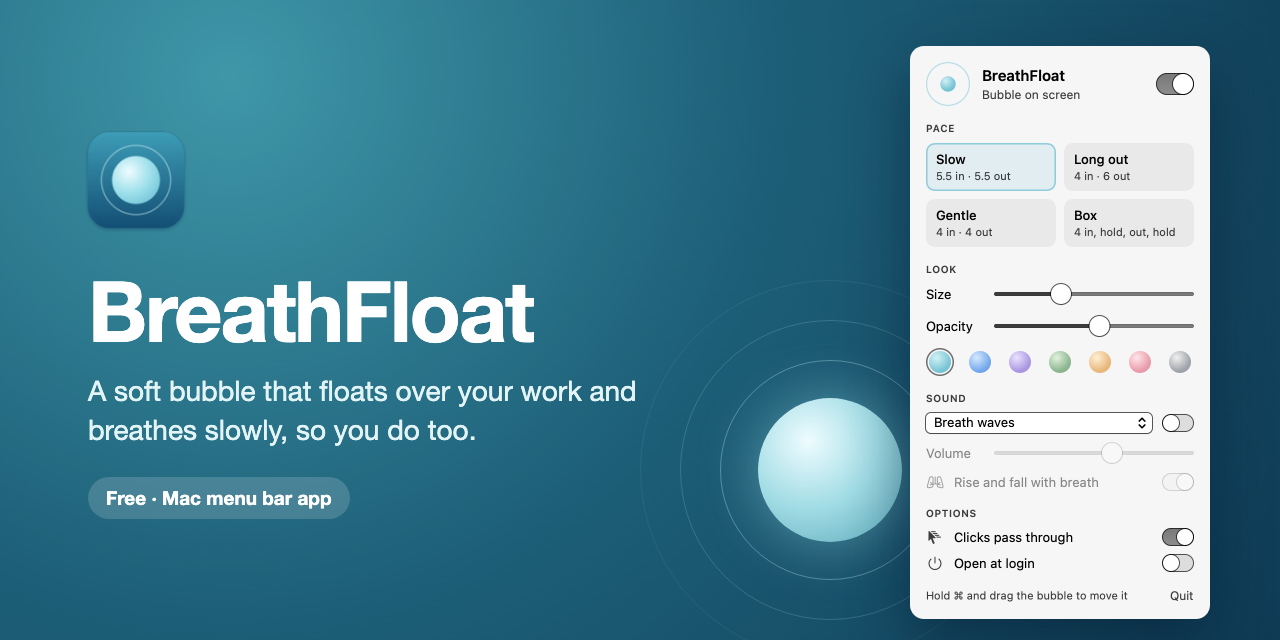
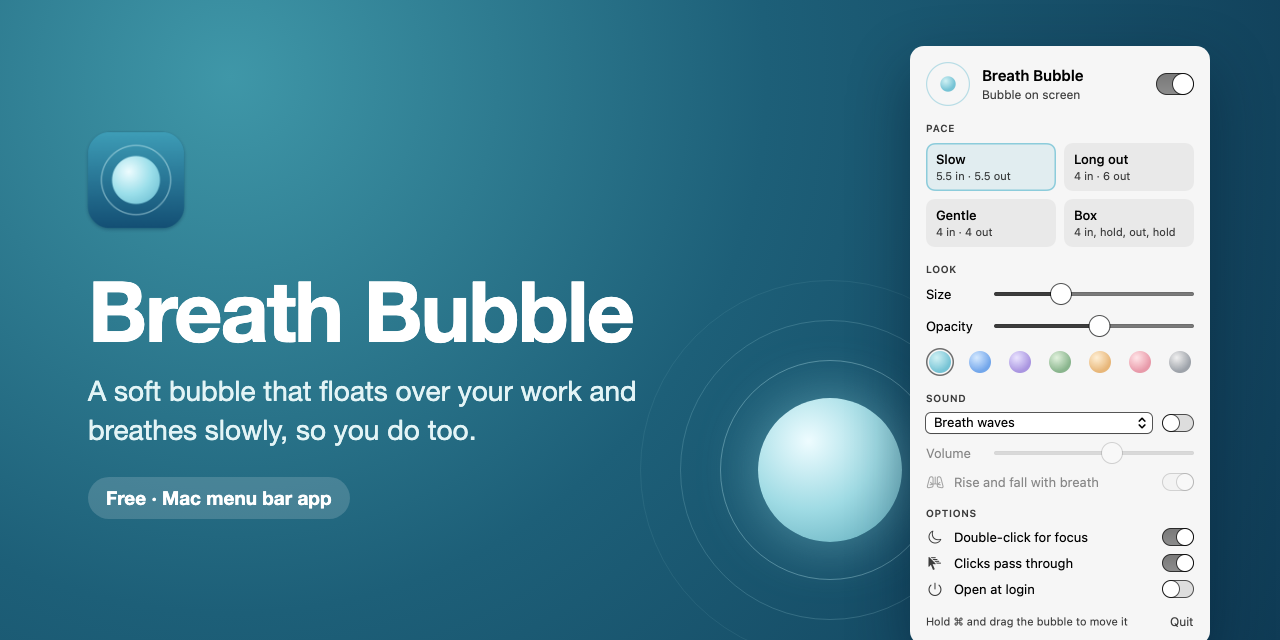
Rename to Breath Bubble; version 1.1.0 with focus mode

diff --git a/Sources/BreathBubble/main.swift b/Sources/BreathBubble/main.swift
@@ -63,9 +63,9 @@ final class AppDelegate: NSObject, NSApplicationDelegate, NSWindowDelegate {
         }
         // Lets a script or Shortcut start and end focus, and lets tests do it without clicking.
         let dc = DistributedNotificationCenter.default()
-        dc.addObserver(self, selector: #selector(focusRequested), name: .init("com.simonwisdom.breathfloat.focus"),
+        dc.addObserver(self, selector: #selector(focusRequested), name: .init("com.simonwisdom.breathbubble.focus"),
                        object: nil, suspensionBehavior: .deliverImmediately)
-        dc.addObserver(self, selector: #selector(unfocusRequested), name: .init("com.simonwisdom.breathfloat.unfocus"),
+        dc.addObserver(self, selector: #selector(unfocusRequested), name: .init("com.simonwisdom.breathbubble.unfocus"),
                        object: nil, suspensionBehavior: .deliverImmediately)
     }
 

diff --git a/Sources/BreathBubble/Focus.swift b/Sources/BreathBubble/Focus.swift
@@ -50,8 +50,8 @@ final class Focus {
             window.backgroundColor = .clear
             window.level = .screenSaver  // above the menu bar and the Dock
             window.collectionBehavior = [.canJoinAllSpaces, .fullScreenAuxiliary, .stationary, .ignoresCycle]
-            // Hidden from screen shares; BREATHFLOAT_CAPTURE=1 lets tests take screenshots.
-            if ProcessInfo.processInfo.environment["BREATHFLOAT_CAPTURE"] == nil { window.sharingType = .none }
+            // Hidden from screen shares; BREATHBUBBLE_CAPTURE=1 lets tests take screenshots.
+            if ProcessInfo.processInfo.environment["BREATHBUBBLE_CAPTURE"] == nil { window.sharingType = .none }
             let view = FocusView(frame: NSRect(origin: .zero, size: screen.frame.size))
             view.onExit = { [weak self] in self?.leave() }
             window.contentView = view

diff --git a/Sources/BreathBubble/PanelView.swift b/Sources/BreathBubble/PanelView.swift
@@ -44,7 +44,7 @@ struct PanelView: View {
             Preview(color: color, pace: Pace.named(paceID))
                 .frame(width: 44, height: 44)
             VStack(alignment: .leading, spacing: 2) {
-                Text("BreathFloat").font(.system(size: 15, weight: .semibold))
+                Text("Breath Bubble").font(.system(size: 15, weight: .semibold))
                 Text(shown ? "Bubble on screen" : "Bubble hidden")
                     .font(.system(size: 12)).foregroundStyle(.secondary)
             }

diff --git a/Package.swift b/Package.swift
@@ -2,9 +2,9 @@
 import PackageDescription
 
 let package = Package(
-    name: "BreathFloat",
+    name: "BreathBubble",
     platforms: [.macOS(.v13)],
     targets: [
-        .executableTarget(name: "BreathFloat", path: "Sources/BreathFloat")
+        .executableTarget(name: "BreathBubble", path: "Sources/BreathBubble")
     ]
 )

diff --git a/tools/banner.html b/tools/banner.html
@@ -26,7 +26,7 @@
 <body>
   <div class="left">
     <img class="icon" src="icon.png" alt="">
-    <h1>BreathFloat</h1>
+    <h1>Breath Bubble</h1>
     <p>A soft bubble that floats over your work and breathes slowly, so you do too.</p>
     <span class="pill">Free · Mac menu bar app</span>
   </div>

diff --git a/README.md b/README.md
@@ -1,8 +1,8 @@
 <p align="center">
-  <img src="docs/banner.png" alt="BreathFloat: a soft bubble that floats over your work and breathes slowly, so you do too.">
+  <img src="docs/banner.png" alt="Breath Bubble: a soft bubble that floats over your work and breathes slowly, so you do too.">
 </p>
 
-<p align="center"><a href="https://github.com/simonwisdom/breathfloat/releases/latest/download/BreathFloat.zip"><b>Download for macOS</b></a> · Free · macOS 13 or later</p>
+<p align="center"><a href="https://github.com/simonwisdom/breath-bubble/releases/latest/download/BreathBubble.zip"><b>Download for macOS</b></a> · Free · macOS 13 or later</p>
 
 <p align="center">
   <img src="docs/breathing.gif" width="480" alt="A soft bubble in the corner of the screen grows and shrinks over a document"><br>
@@ -29,8 +29,8 @@ A friend keeps his phone open beside his laptop with a bubble that grows and shr
 
 ## Install
 
-1. Download `BreathFloat.zip` from the [latest release](https://github.com/simonwisdom/breathfloat/releases/latest).
-2. Unzip it and drag `BreathFloat.app` into Applications.
+1. Download `BreathBubble.zip` from the [latest release](https://github.com/simonwisdom/breath-bubble/releases/latest).
+2. Unzip it and drag `Breath Bubble.app` into Applications.
 3. Open it. The first time, macOS says it can't verify the app: open System Settings → Privacy & Security, scroll down and click **Open Anyway**.
 4. Click the bubble icon in the menu bar to choose a pace, colour and sound. Turn on **Open at login** to have it every day.
 
@@ -47,10 +47,10 @@ Needs Xcode 15 or later (or the Swift toolchain).
 
 ```sh
 tools/make-assets   # optional: app icon and README pictures (needs Google Chrome and ffmpeg)
-bin/build           # makes build/BreathFloat.app and build/BreathFloat.zip
+bin/build           # makes build/Breath Bubble.app and build/BreathBubble.zip
 ```
 
-`BreathFloat --snapshot <folder>` draws the settings panel to PNGs, and `BreathFloat --check-sounds` checks the sound files load, both without opening anything on screen.
+`BreathBubble --snapshot <folder>` draws the settings panel to PNGs, and `BreathBubble --check-sounds` checks the sound files load, both without opening anything on screen.
 
 ## License
 
